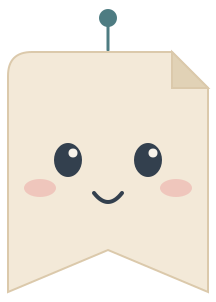
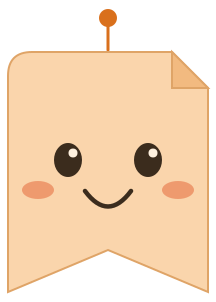
feat(R4): 챗봇 말풍선 기본형 복귀 + 캐릭터 대각선 배치 + 마스코트 색상 최종화
말풍선 꼬리(회전 사각형 → 테두리 삼각형 → SVG 손그림 트레이싱)를 여러 차례
시도했으나 사용자가 최종적으로 "복잡한 실험은 접고 기본 형태로" 요청 —
테두리+배경만 있는 단순한 rounded-2xl 말풍선으로 되돌렸다.

캐릭터 아바타는 items-end(바닥 정렬) + translate-y-3로 바꿨다 — 이전에
쓰던 margin-top(위쪽 기준 고정값)은 말풍선 줄바꿈에 따라 높이가 바뀌면
대각선 정도가 들쭉날쭉해지는 문제가 있었다(사용자 제보 — 패널 폭에 따라
어떤 메시지는 대각선, 어떤 건 평행). 바닥 기준으로 캐릭터를 그 아래로
미는 방식은 말풍선 높이와 무관하게 항상 같은 정도로 대각선을 유지한다 —
좁은/넓은 패널 양쪽에서 실측 확인.

마스코트 이미지는 빨강→오렌지로 교체하고 오렌지를 최종 결정했다.

diff --git a/frontend/src/components/Ssabi/ChatbotTab.tsx b/frontend/src/components/Ssabi/ChatbotTab.tsx
@@ -139,19 +139,19 @@ export default function ChatbotTab({
               turn.role === 'user' ? (
                 <p
                   key={i}
-                  className="ml-auto max-w-[76%] rounded-2xl rounded-br-md border border-brief-rule bg-brief-paper px-[13px] py-[9px] text-xs leading-[1.6] text-brief-ink"
+                  className="ml-auto w-fit max-w-[76%] rounded-2xl rounded-br-md border border-brief-rule bg-brief-paper px-[13px] py-[9px] text-xs leading-[1.6] text-brief-ink"
                 >
                   {turn.text}
                 </p>
               ) : (
                 <div key={i} className="flex items-end gap-2">
-                  <span
+                  <img
+                    src="/assets/ssabi-face.png"
+                    alt=""
                     aria-hidden="true"
-                    className="flex size-8 shrink-0 items-center justify-center overflow-hidden rounded-full border border-brief-accent bg-brief-accent-soft"
-                  >
-                    <img src="/assets/ssabi-face.png" alt="" className="size-full object-contain" />
-                  </span>
-                  <p className="max-w-[76%] whitespace-pre-wrap rounded-2xl rounded-bl-md border border-brief-accent bg-white px-[13px] py-[9px] text-xs leading-[1.6] text-brief-ink">
+                    className="h-9 w-auto shrink-0 translate-y-3 object-contain"
+                  />
+                  <p className="w-fit max-w-[76%] whitespace-pre-wrap rounded-2xl rounded-bl-md border border-brief-accent bg-white px-[13px] py-[9px] text-xs leading-[1.6] text-brief-ink">
                     {turn.text}
                   </p>
                 </div>
